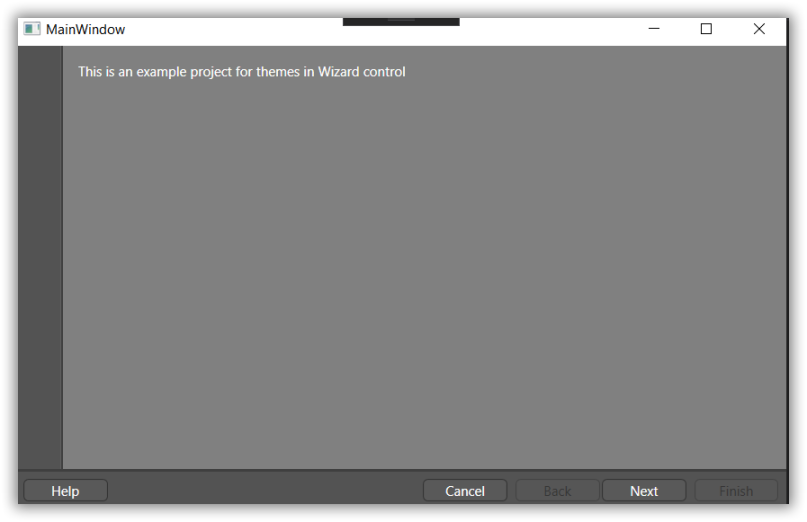
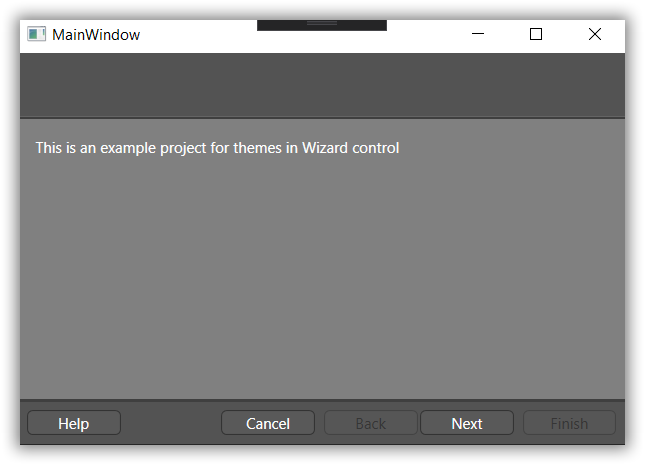
Requested changes has been updated successfully.

Changed region(s): [[0.0, 0.0, 0.9922, 0.9935]]

diff --git a/wpf/Wizard-Control/Layout-Related-Features.md b/wpf/Wizard-Control/Layout-Related-Features.md
@@ -37,8 +37,6 @@ wizardControl.Items.Add(wizardPage);
 
 wizardControl.InteriorPageHeaderMinHeight = 150; 
 
-this.Content = wizardControl;
-
 {% endhighlight %}
 
 {%endtabs%}
@@ -70,8 +68,6 @@ WizardPage wizardPage = new WizardPage();
 wizardControl.Items.Add(wizardPage);
 
 wizardPage.BannerBackground = Brushes.Navy;
-
-this.Content = wizardControl;
 
 {% endhighlight %}
 
@@ -107,8 +103,6 @@ WizardPage wizardPage = new WizardPage();
 wizardControl.Items.Add(wizardPage);
 
 wizardPage.BannerImage = new BitmapImage(new Uri("/Image/sync.bmp", UriKind.RelativeOrAbsolute));  
-
-this.Content = wizardControl;
 
 {% endhighlight %}
 
@@ -148,8 +142,6 @@ wizardPage.PageType = WizardPageType.Exterior;
 
 wizardControl.ExteriorPageBannerImageMinWidth = 10;
 
-this.Content = wizardControl;
-
 {% endhighlight %}
 
 {%endtabs%}
@@ -177,7 +169,7 @@ The appearance of the Wizard control can be customized by using the “VisualSty
 {% highlight xaml %}
 
 <syncfusion:WizardControl Name="wizard" syncfusion:SkinStorage.VisualStyle="Blend">
-    <syncfusion:WizardPage  PageType="Exterior">
+    <syncfusion:WizardPage>
             <TextBlock Text="This is an example project for themes in Wizard control" />
     </syncfusion:WizardPage>
     <syncfusion:WizardPage />
